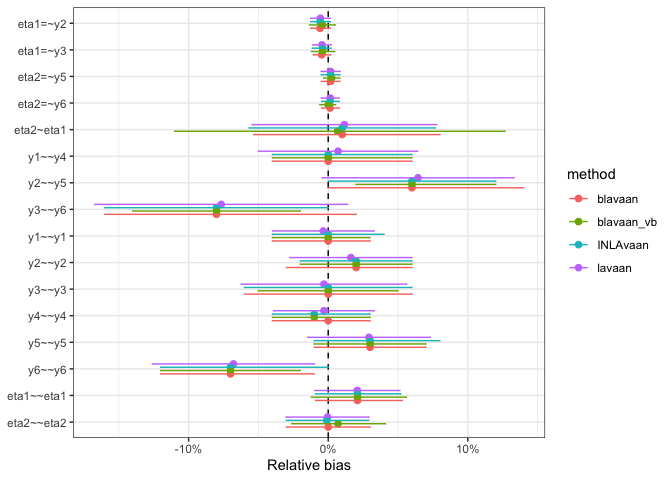
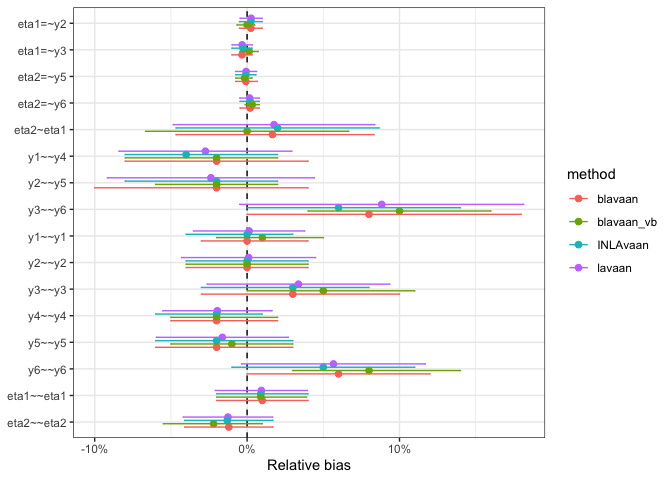
Update README

diff --git a/README.md b/README.md
@@ -116,12 +116,12 @@ mod <- "
 dplyr::glimpse(dat)
 #> Rows: 10,000
 #> Columns: 6
-#> $ y1 <dbl> 0.709801263, 0.842340759, -1.213499961, -0.200593044, 0.798170874, …
-#> $ y2 <dbl> 1.15008029, 1.20330819, -0.47440788, -0.33209759, 0.73791700, 0.019…
-#> $ y3 <dbl> 1.2848640572, 1.7572442266, -0.6549680413, -0.3067896758, 1.2151127…
-#> $ y4 <dbl> 1.24142876, 0.56811857, -2.12670803, -0.50739519, 0.03233622, -0.92…
-#> $ y5 <dbl> 1.15048010, 0.46779008, -2.74135310, -0.91711369, -0.04315028, -1.1…
-#> $ y6 <dbl> 1.34254059, 0.54066565, -2.90934210, -0.88349219, -0.08309935, -1.4…
+#> $ y1 <dbl> -1.26736639, -2.31884913, 1.71420679, 2.01369694, 1.37071214, -0.95…
+#> $ y2 <dbl> -1.3071645, -2.4263002, 1.9387949, 2.9101688, 1.7358113, -1.6660828…
+#> $ y3 <dbl> -2.2831840, -2.2597714, 2.3922723, 3.1412267, 2.1247038, -1.3562886…
+#> $ y4 <dbl> -0.18661779, -1.42605096, 2.49517728, -1.17149170, -1.01596946, 0.0…
+#> $ y5 <dbl> -0.6070868, -1.9211147, 2.9405287, -1.0167702, -0.4167566, -1.00124…
+#> $ y6 <dbl> -1.2278010, -2.2398984, 3.2180808, -1.8873268, -1.2123784, -0.60215…
 ```
 
 To fit this model using `{INLAvaan}`, use the familiar `{lavaan}`
@@ -134,7 +134,7 @@ fit <- isem(model = mod, data = dat)
 summary(fit)
 ```
 
-    #> INLAvaan 0.1.0.9011 ended normally after 36 seconds
+    #> INLAvaan 0.1.0.9012 ended normally after 34 seconds
     #> 
     #>   Estimator                                      BAYES
     #>   Optimization method                             INLA
@@ -143,7 +143,7 @@ summary(fit)
     #>   Number of observations                         10000
     #> 
     #>   Statistic                                 MargLogLik         PPP
-    #>   Value                                     -51887.404          NA
+    #>   Value                                     -52033.656          NA
     #> 
     #> Parameter Estimates:
     #> 
@@ -152,37 +152,37 @@ summary(fit)
     #>                    Estimate  Post.SD pi.lower pi.upper    Prior       
     #>   eta1 =~                                                             
     #>     y1                1.000                                           
-    #>     y2                1.193    0.004    1.185    1.202    normal(0,10)
-    #>     y3                1.494    0.005    1.483    1.503    normal(0,10)
+    #>     y2                1.203    0.004    1.194    1.212    normal(0,10)
+    #>     y3                1.496    0.005    1.485    1.505    normal(0,10)
     #>   eta2 =~                                                             
     #>     y4                1.000                                           
-    #>     y5                1.202    0.004    1.194    1.210    normal(0,10)
-    #>     y6                1.502    0.005    1.493    1.512    normal(0,10)
+    #>     y5                1.199    0.004    1.191    1.207    normal(0,10)
+    #>     y6                1.503    0.005    1.493    1.512    normal(0,10)
     #> 
     #> Regressions:
     #>                    Estimate  Post.SD pi.lower pi.upper    Prior       
     #>   eta2 ~                                                              
-    #>     eta1              0.303    0.010    0.283    0.323    normal(0,10)
+    #>     eta1              0.306    0.010    0.286    0.326    normal(0,10)
     #> 
     #> Covariances:
     #>                    Estimate  Post.SD pi.lower pi.upper    Prior       
     #>  .y1 ~~                                                               
-    #>    .y4                0.050    0.001    0.048    0.053       beta(1,1)
+    #>    .y4                0.048    0.001    0.046    0.051       beta(1,1)
     #>  .y2 ~~                                                               
-    #>    .y5                0.053    0.001    0.050    0.056       beta(1,1)
+    #>    .y5                0.049    0.001    0.046    0.051       beta(1,1)
     #>  .y3 ~~                                                               
-    #>    .y6                0.046    0.002    0.042    0.050       beta(1,1)
+    #>    .y6                0.053    0.002    0.050    0.057       beta(1,1)
     #> 
     #> Variances:
     #>                    Estimate  Post.SD pi.lower pi.upper    Prior       
-    #>    .y1                0.100    0.002    0.096    0.104 gamma(1,.5)[sd]
-    #>    .y2                0.102    0.002    0.098    0.106 gamma(1,.5)[sd]
-    #>    .y3                0.100    0.003    0.094    0.106 gamma(1,.5)[sd]
-    #>    .y4                0.099    0.002    0.096    0.103 gamma(1,.5)[sd]
-    #>    .y5                0.103    0.002    0.099    0.108 gamma(1,.5)[sd]
-    #>    .y6                0.093    0.003    0.088    0.100 gamma(1,.5)[sd]
-    #>     eta1              1.021    0.015    0.991    1.052 gamma(1,.5)[sd]
-    #>    .eta2              0.999    0.015    0.970    1.029 gamma(1,.5)[sd]
+    #>    .y1                0.100    0.002    0.096    0.103 gamma(1,.5)[sd]
+    #>    .y2                0.100    0.002    0.096    0.104 gamma(1,.5)[sd]
+    #>    .y3                0.103    0.003    0.097    0.108 gamma(1,.5)[sd]
+    #>    .y4                0.098    0.002    0.094    0.101 gamma(1,.5)[sd]
+    #>    .y5                0.098    0.002    0.094    0.103 gamma(1,.5)[sd]
+    #>    .y6                0.105    0.003    0.099    0.111 gamma(1,.5)[sd]
+    #>     eta1              1.009    0.015    0.980    1.040 gamma(1,.5)[sd]
+    #>    .eta2              0.987    0.015    0.959    1.017 gamma(1,.5)[sd]
 
 Compare model fit to `{lavaan}` and `{blavaan}` (MCMC sampling using
 Stan on a single thread obtaining 1000 burnin and 2000 samples, as well
@@ -194,11 +194,153 @@ as variational Bayes):
     #> ── Compare timing (seconds) ──
     #> 
     #>   INLAvaan     lavaan    blavaan blavaan_vb 
-    #>     36.734      0.030    131.507     89.568
+    #>     34.968      0.028    127.584     92.434
 
 A little experiment to see how sample size affects run time:
 
 <img src="man/figures/README-unnamed-chunk-6-1.png" width="100%" />
+
+## Political democracy data
+
+The quintessential example for SEM is this model from Bollen (1989) to
+fit a political democracy data set. Eleven observed variables are
+hypothesized to arise from three latent variables. This set includes
+data from 75 developing countries each assessed on four measures of
+democracy measured twice (1960 and 1965), and three measures of
+industrialization measured once (1960). The eleven observed variables
+are:
+
+- `y1`: Freedom of the press, 1960
+- `y2`: Freedom of political opposition, 1960
+- `y3`: Fairness of elections, 1960
+- `y4`: Effectiveness of elected legislature, 1960
+- `y5`: Freedom of the press, 1965
+- `y6`: Freedom of political opposition, 1965
+- `y7`: Fairness of elections, 1965
+- `y8`: Effectiveness of elected legislature, 1965
+- `y9`: GNP per capita, 1960
+- `y10`: Energy consumption per capita, 1960
+- `y11`: Percentage of labor force in industry, 1960
+
+Variables `y1-y4` and `y5-y8` are typically used as indicators of the
+latent trait of “political democracy” in 1960 and 1965 respectively,
+whereas `y9-y11` are used as indicators of industrialization (1960). It
+is theorised that industrialisation influences political democracy, and
+that political democracy in 1960 influences political democracy in 1965.
+Since the items measure the same latent trait at two time points, there
+is an assumption that the residuals of these items will be correlated
+with each other. The model is depicted in the figure below.
+
+<img src="https://lavaan.ugent.be/figures/sem.png" width="100%" />
+
+The corresponding model in `{lavaan}` syntax is:
+
+``` r
+mod <- "
+  # latent variables
+  dem60 =~ y1 + y2 + y3 + y4
+  dem65 =~ y5 + y6 + y7 + y8
+  ind60 =~ x1 + x2 + x3
+
+  # latent regressions
+  dem60 ~ ind60
+  dem65 ~ ind60 + dem60
+
+  # residual covariances
+  y1 ~~ y5
+  y2 ~~ y4 + y6
+  y3 ~~ y7
+  y4 ~~ y8
+  y6 ~~ y8
+"
+```
+
+We will fit this model using `{INLAvaan}` and compare the results with
+`{blavaan}`.
+
+``` r
+data("PoliticalDemocracy", package = "lavaan")
+poldemfit <- isem(model = mod, data = PoliticalDemocracy)
+summary(poldemfit)
+```
+
+    #> INLAvaan 0.1.0.9012 ended normally after 9 seconds
+    #> 
+    #>   Estimator                                      BAYES
+    #>   Optimization method                             INLA
+    #>   Number of model parameters                        31
+    #> 
+    #>   Number of observations                            75
+    #> 
+    #>   Statistic                                 MargLogLik         PPP
+    #>   Value                                      -1607.444          NA
+    #> 
+    #> Parameter Estimates:
+    #> 
+    #> 
+    #> Latent Variables:
+    #>                    Estimate  Post.SD pi.lower pi.upper    Prior       
+    #>   dem60 =~                                                            
+    #>     y1                1.000                                           
+    #>     y2                1.256    0.184    0.894    1.620    normal(0,10)
+    #>     y3                1.056    0.149    0.764    1.349    normal(0,10)
+    #>     y4                1.262    0.150    0.967    1.558    normal(0,10)
+    #>   dem65 =~                                                            
+    #>     y5                1.000                                           
+    #>     y6                1.189    0.172    0.850    1.529    normal(0,10)
+    #>     y7                1.281    0.162    0.963    1.599    normal(0,10)
+    #>     y8                1.267    0.164    0.944    1.591    normal(0,10)
+    #>   ind60 =~                                                            
+    #>     x1                1.000                                           
+    #>     x2                2.186    0.138    1.923    2.465    normal(0,10)
+    #>     x3                1.816    0.152    1.520    2.118    normal(0,10)
+    #> 
+    #> Regressions:
+    #>                    Estimate  Post.SD pi.lower pi.upper    Prior       
+    #>   dem60 ~                                                             
+    #>     ind60             1.478    0.398    0.691    2.259    normal(0,10)
+    #>   dem65 ~                                                             
+    #>     ind60             0.562    0.230    0.106    1.011    normal(0,10)
+    #>     dem60             0.847    0.097    0.662    1.043    normal(0,10)
+    #> 
+    #> Covariances:
+    #>                    Estimate  Post.SD pi.lower pi.upper    Prior       
+    #>  .y1 ~~                                                               
+    #>    .y5                0.622    0.331   -0.042    1.234       beta(1,1)
+    #>  .y2 ~~                                                               
+    #>    .y4                1.372    0.604    0.306    2.743       beta(1,1)
+    #>    .y6                2.183    0.664    1.025    3.479       beta(1,1)
+    #>  .y3 ~~                                                               
+    #>    .y7                0.770    0.560   -0.447    1.879       beta(1,1)
+    #>  .y4 ~~                                                               
+    #>    .y8                0.337    0.461   -0.594    1.259       beta(1,1)
+    #>  .y6 ~~                                                               
+    #>    .y8                1.427    0.488    0.502    2.339       beta(1,1)
+    #> 
+    #> Variances:
+    #>                    Estimate  Post.SD pi.lower pi.upper    Prior       
+    #>    .y1                2.026    0.486    1.151    3.186 gamma(1,.5)[sd]
+    #>    .y2                7.436    1.375    5.257   10.529 gamma(1,.5)[sd]
+    #>    .y3                5.242    0.950    3.629    7.278 gamma(1,.5)[sd]
+    #>    .y4                3.368    0.788    2.065    5.190 gamma(1,.5)[sd]
+    #>    .y5                2.435    0.525    1.602    3.590 gamma(1,.5)[sd]
+    #>    .y6                5.128    0.951    3.671    7.163 gamma(1,.5)[sd]
+    #>    .y7                3.733    0.797    2.441    5.373 gamma(1,.5)[sd]
+    #>    .y8                3.464    0.791    2.149    5.219 gamma(1,.5)[sd]
+    #>    .x1                0.087    0.021    0.055    0.130 gamma(1,.5)[sd]
+    #>    .x2                0.112    0.058    0.028    0.233 gamma(1,.5)[sd]
+    #>    .x3                0.481    0.091    0.329    0.690 gamma(1,.5)[sd]
+    #>    .dem60             4.118    0.982    2.518    6.356 gamma(1,.5)[sd]
+    #>    .dem65             0.104    0.180   -0.002    0.560 gamma(1,.5)[sd]
+    #>     ind60             0.462    0.090    0.310    0.662 gamma(1,.5)[sd]
+
+<img src="man/figures/README-fig-poldem-1.png" width="100%" />
+
+    #> 
+    #> ── Compare timing (seconds) ──
+    #> 
+    #> INLAvaan  blavaan 
+    #>    9.004   19.669
 
 ## Outro
 
@@ -214,7 +356,7 @@ sessioninfo::session_info(info = "all")
 #>  collate  en_US.UTF-8
 #>  ctype    en_US.UTF-8
 #>  tz       Asia/Riyadh
-#>  date     2024-05-29
+#>  date     2024-05-30
 #>  pandoc   3.2 @ /opt/homebrew/bin/ (via rmarkdown)
 #> 
 #> ─ Packages ───────────────────────────────────────────────────────────────────
@@ -255,7 +397,7 @@ sessioninfo::session_info(info = "all")
 #>  forcats      * 1.0.0       2023-01-29 [1] CRAN (R 4.4.0)
 #>  foreign        0.8-86      2023-11-28 [1] CRAN (R 4.4.0)
 #>  Formula        1.2-5       2023-02-24 [1] CRAN (R 4.4.0)
-#>  future         1.33.2      2024-03-26 [1] CRAN (R 4.4.0)
+#>  future       * 1.33.2      2024-03-26 [1] CRAN (R 4.4.0)
 #>  future.apply   1.11.2      2024-03-28 [1] CRAN (R 4.4.0)
 #>  generics       0.1.3       2022-07-05 [1] CRAN (R 4.4.0)
 #>  ggplot2      * 3.5.1       2024-04-23 [1] CRAN (R 4.4.0)
@@ -274,7 +416,7 @@ sessioninfo::session_info(info = "all")
 #>  htmlwidgets    1.6.4       2023-12-06 [1] CRAN (R 4.4.0)
 #>  igraph         2.0.3       2024-03-13 [1] CRAN (R 4.4.0)
 #>  INLA           24.05.27-2  2024-05-27 [1] local
-#>  INLAvaan     * 0.1.0.9011  2024-05-29 [1] local
+#>  INLAvaan     * 0.1.0.9012  2024-05-30 [1] local
 #>  inline         0.3.19      2021-05-31 [1] CRAN (R 4.4.0)
 #>  jpeg           0.1-10      2022-11-29 [1] CRAN (R 4.4.0)
 #>  jsonlite       1.8.8       2023-12-04 [1] CRAN (R 4.4.0)
@@ -335,6 +477,7 @@ sessioninfo::session_info(info = "all")
 #>  rstan          2.32.6      2024-03-05 [1] CRAN (R 4.4.0)
 #>  rstantools     2.4.0       2024-01-31 [1] CRAN (R 4.4.0)
 #>  rstudioapi     0.16.0      2024-03-24 [1] CRAN (R 4.4.0)
+#>  runjags        2.2.2-4     2024-03-10 [1] CRAN (R 4.4.0)
 #>  sandwich       3.1-0       2023-12-11 [1] CRAN (R 4.4.0)
 #>  scales         1.3.0       2023-11-28 [1] CRAN (R 4.4.0)
 #>  sem            3.1-15      2022-04-10 [1] CRAN (R 4.4.0)
